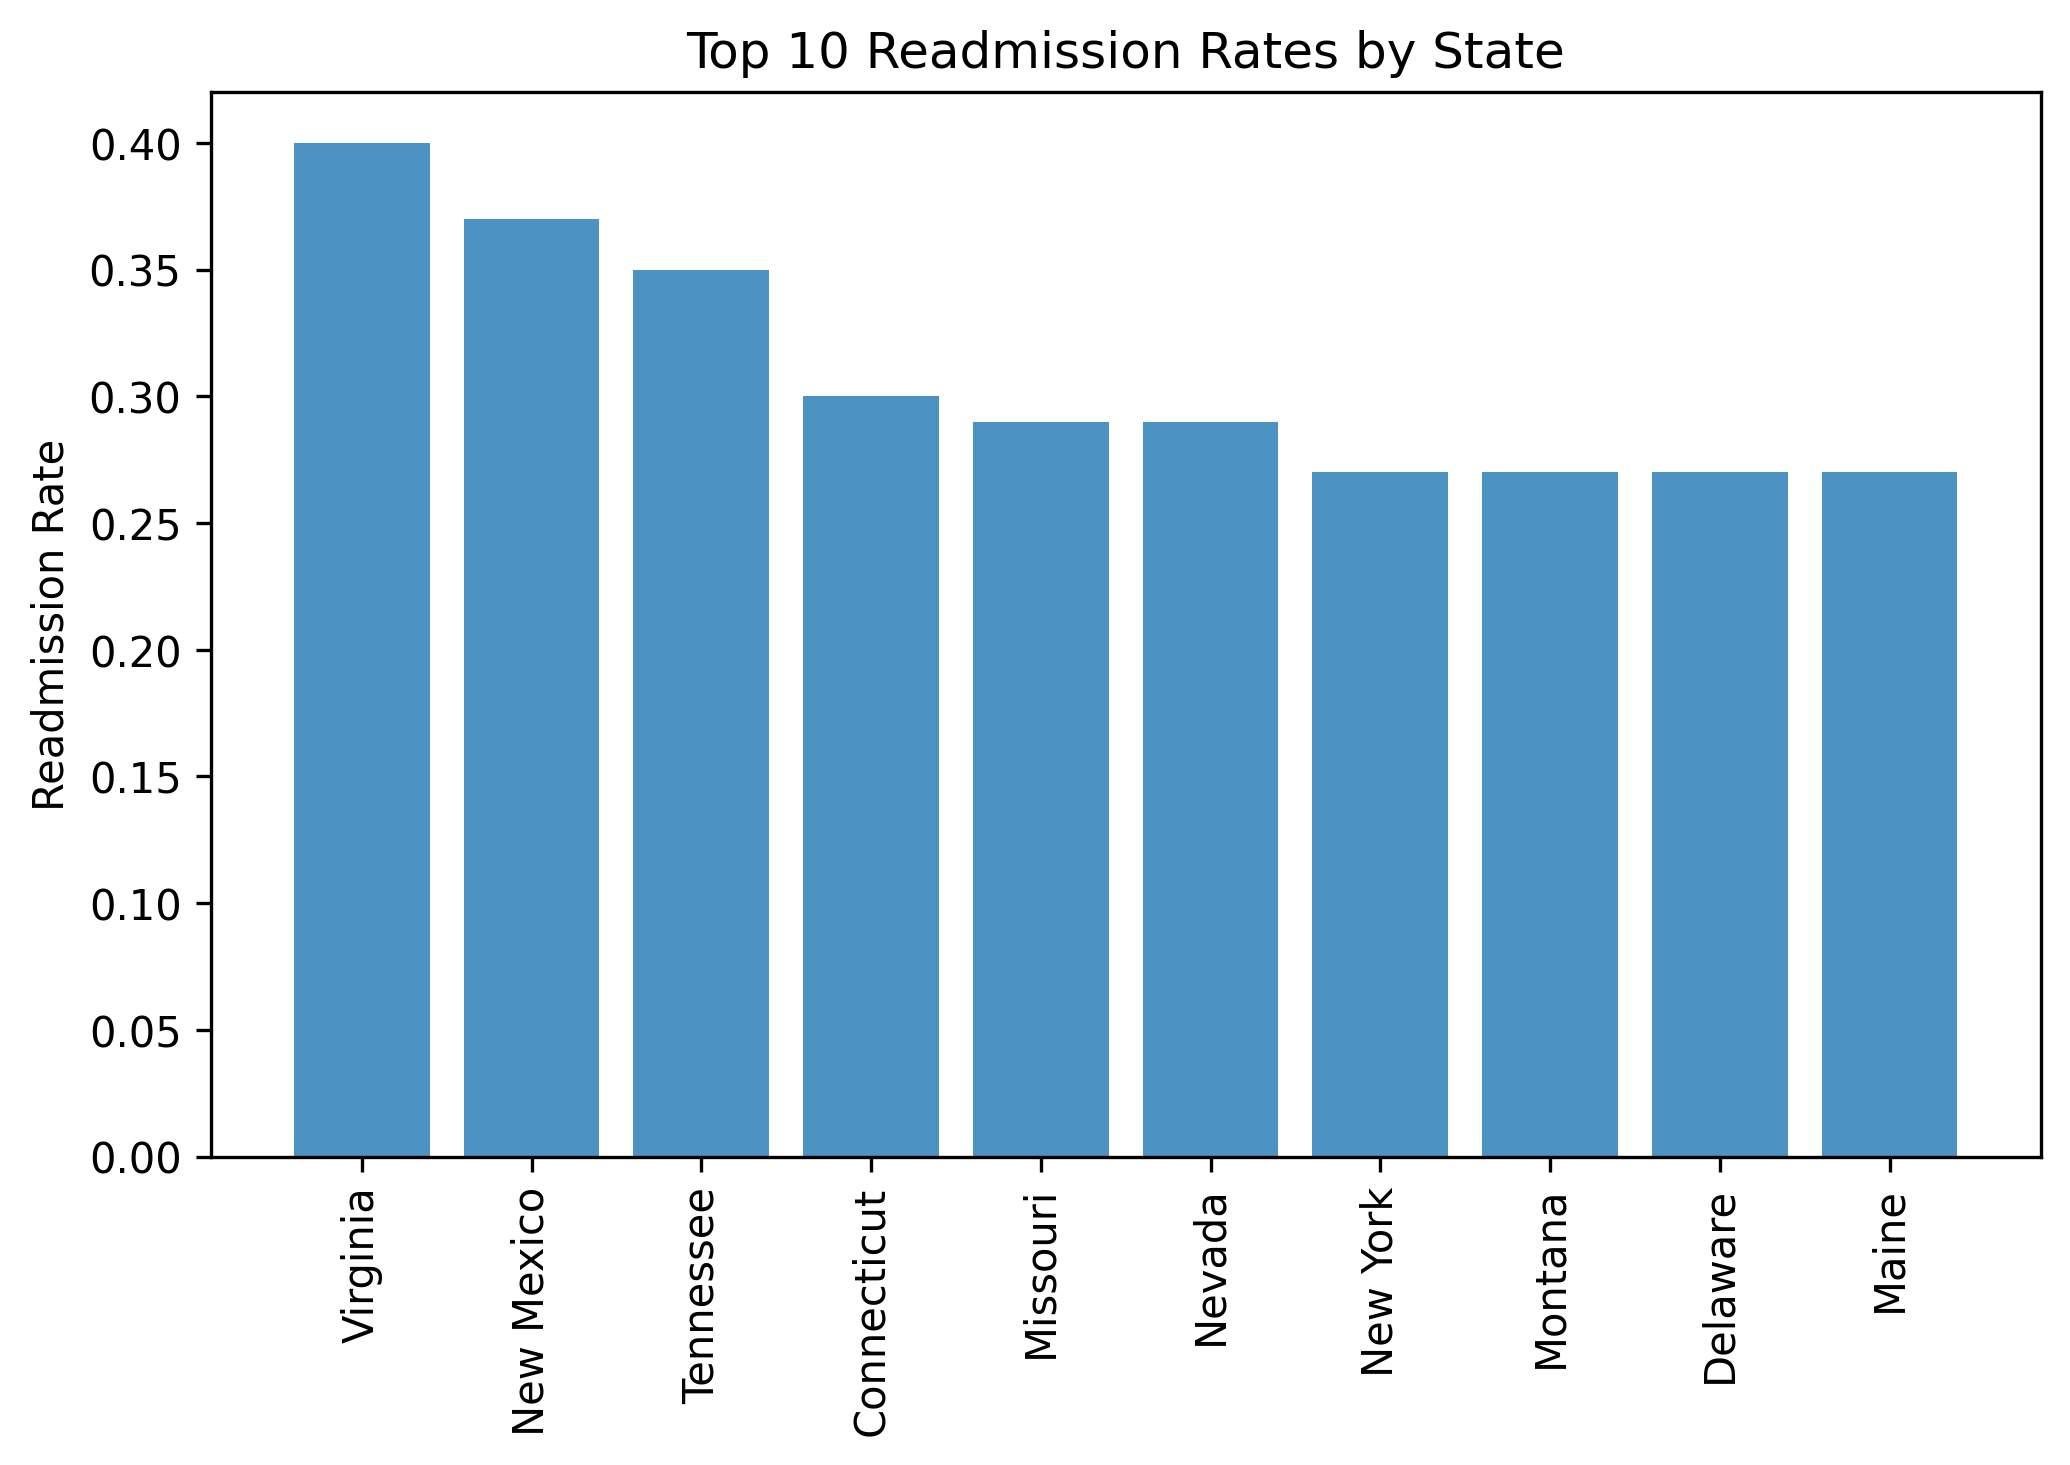
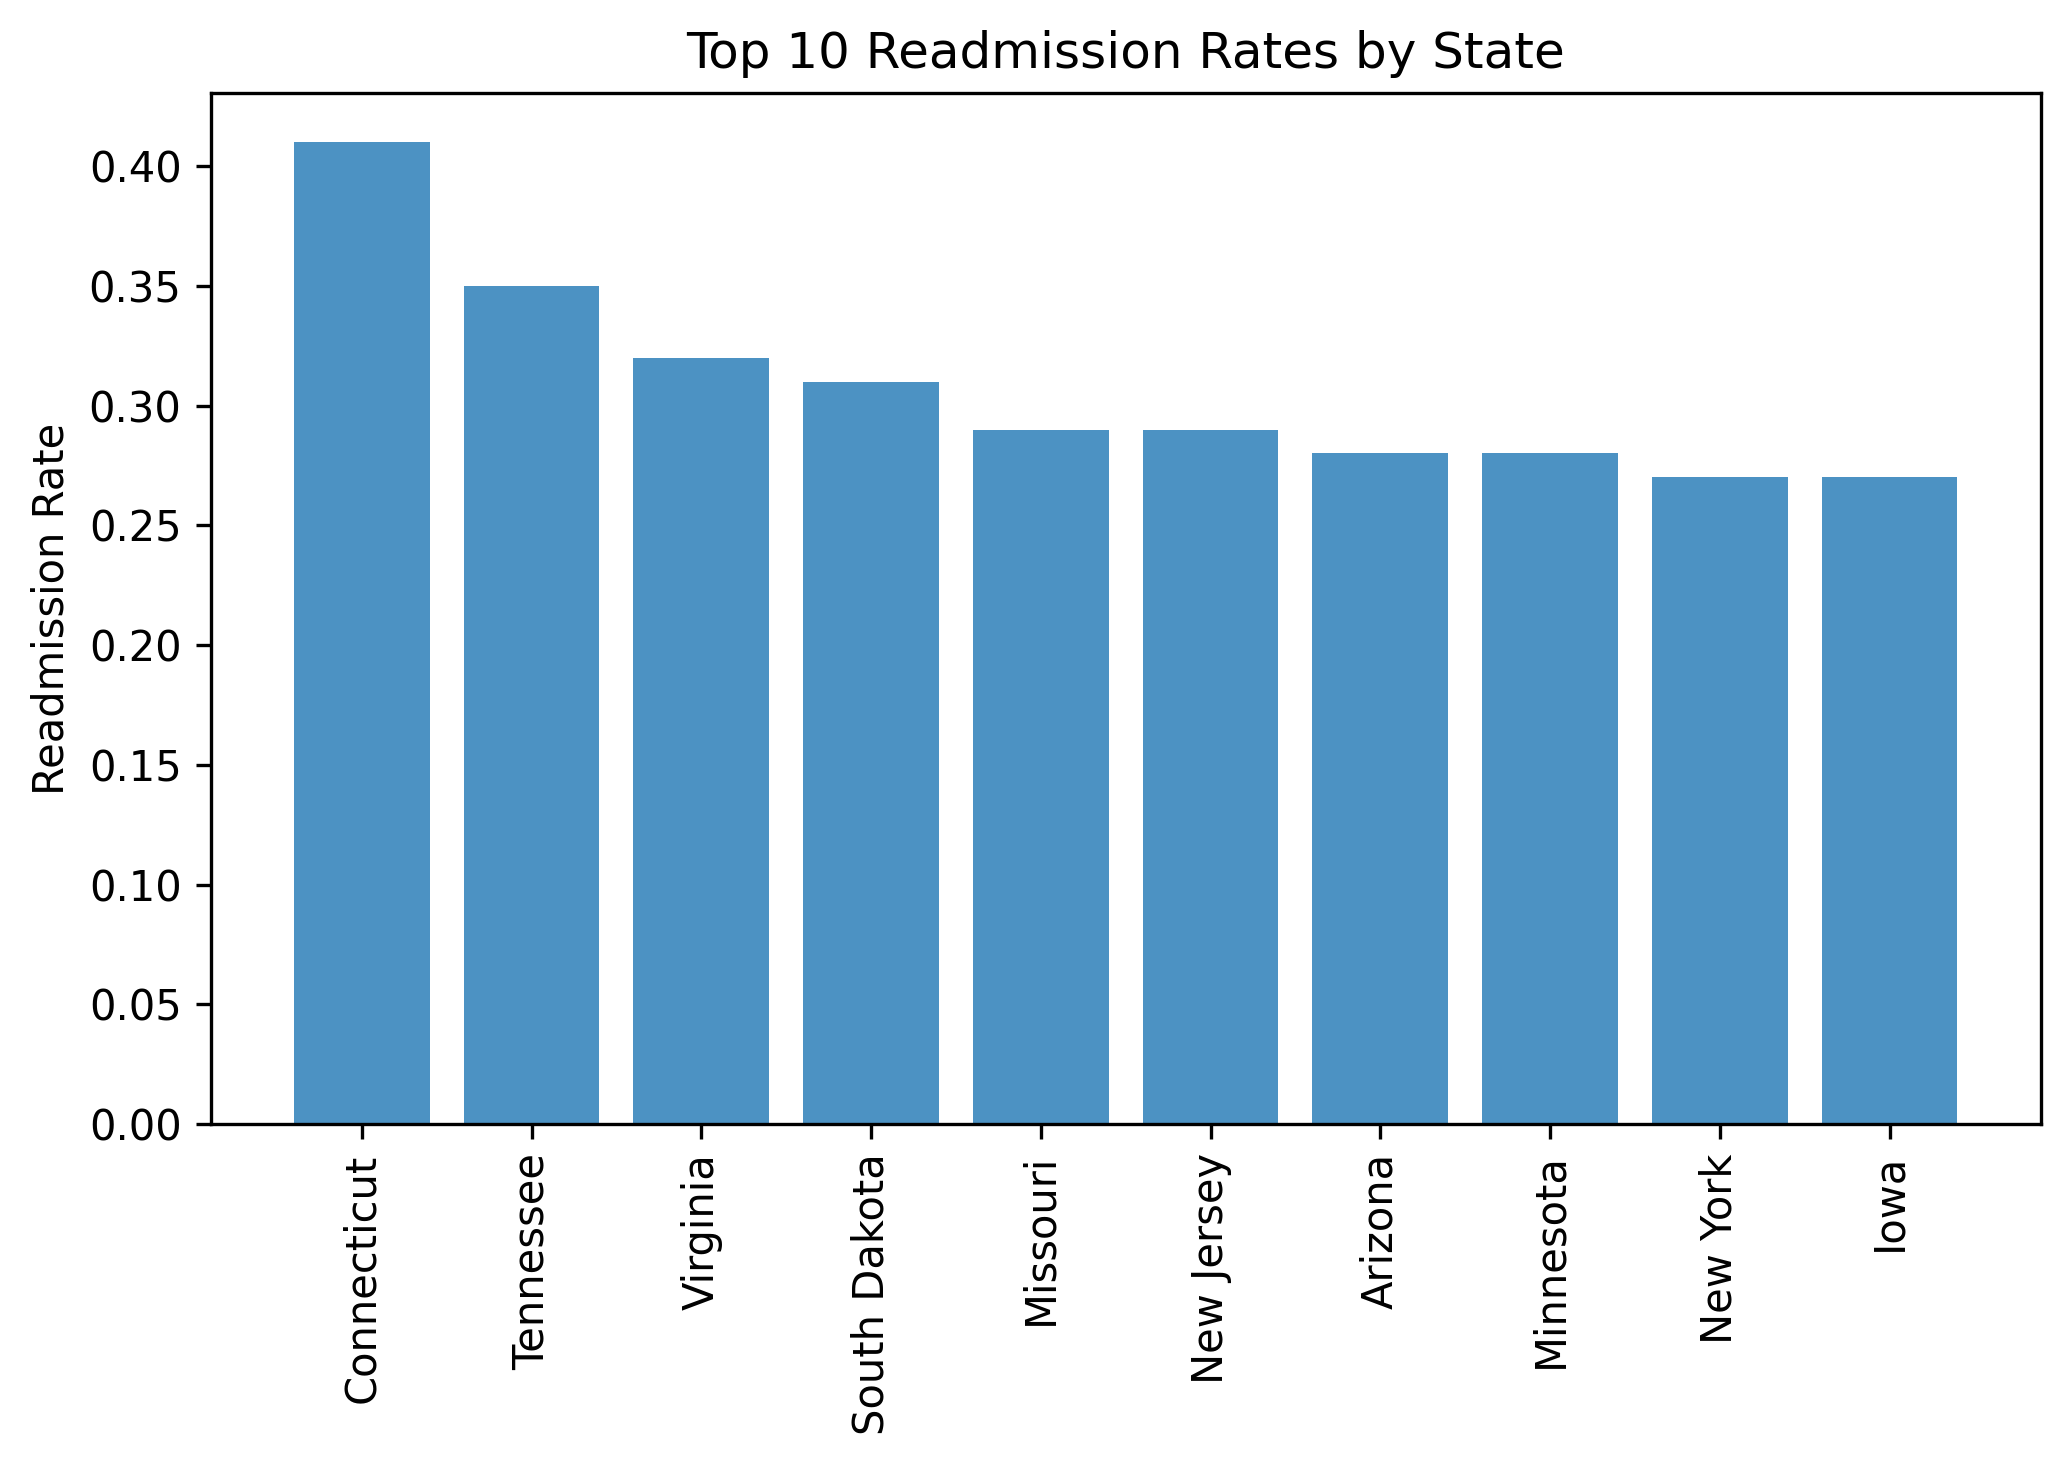
bug fix

diff --git a/state_data_import.py b/state_data_import.py
@@ -1,0 +1,45 @@
+import duckdb
+import os
+
+# Connect to the existing DuckDB database
+conn = duckdb.connect('claims.duckdb')
+
+# Check if the state table exists
+table_exists = conn.execute("SELECT name FROM sqlite_master WHERE type='table' AND name='state'").fetchone()
+
+if not table_exists:
+    print("Error: The state table does not exist. Please run create_claims_db.py first.")
+    conn.close()
+    exit(1)
+
+# Import state CSV file using duckdb.read_csv()
+try:
+    # Clear existing data
+    conn.execute("DELETE FROM state")
+    print("Existing data cleared from state table")
+
+    # Get the CSV file in the state folder
+    state_folder = './data/state'
+    csv_file = 'state.csv'
+    file_path = os.path.join(state_folder, csv_file)
+
+    conn.execute(f"""
+        INSERT INTO state
+        SELECT 
+            CAST(state_name AS VARCHAR(50)),
+            CAST(sp_state_code AS VARCHAR(2)),
+            CAST(state_abbr AS VARCHAR(2))
+        FROM read_csv('{file_path}', auto_detect=true)
+    """)
+    print(f"Data imported successfully from {csv_file}")
+
+    # Add count(*) check
+    row_count = conn.execute("SELECT COUNT(*) FROM state").fetchone()[0]
+    print(f"Total number of rows in state table: {row_count}")
+
+except Exception as e:
+    print(f"Error importing data: {str(e)}")
+
+# Close the database connection
+conn.close()
+print("Database connection closed.")

diff --git a/main.py b/main.py
@@ -23,7 +23,7 @@ if __name__ == "__main__":
         "chart.py",
         "icd_codes_import.py",
         "icd_description_import.py",
-        "plotly_dashboard.py"
+        "plotly_dashboard_ai.py"
     ]
 
     for script in scripts:

diff --git a/README.md b/README.md
@@ -152,4 +152,4 @@ Generally speaking, we have structured this project as a _learning experience_ a
 
 * all the data imports are separated in named files like `bene_data_import.py` and `claims_data_import.py` that are called directly. In a larger project, we would orchestrate them with a tool like Airflow or Prefect to track their progress.
 * `plotly_dashboard_ai.py` has both presentation and business/calculation logic. Normally, we would separate those for modularity.
-* we included the final .duckdb database and .png images generated by the process. Normally, one would generate these from the scripts to ensure the latest data is included.
+* we included the input CSV files and .png images generated by the process. Normally, one would either get these separately or generate these from the scripts to ensure the latest data was used.
